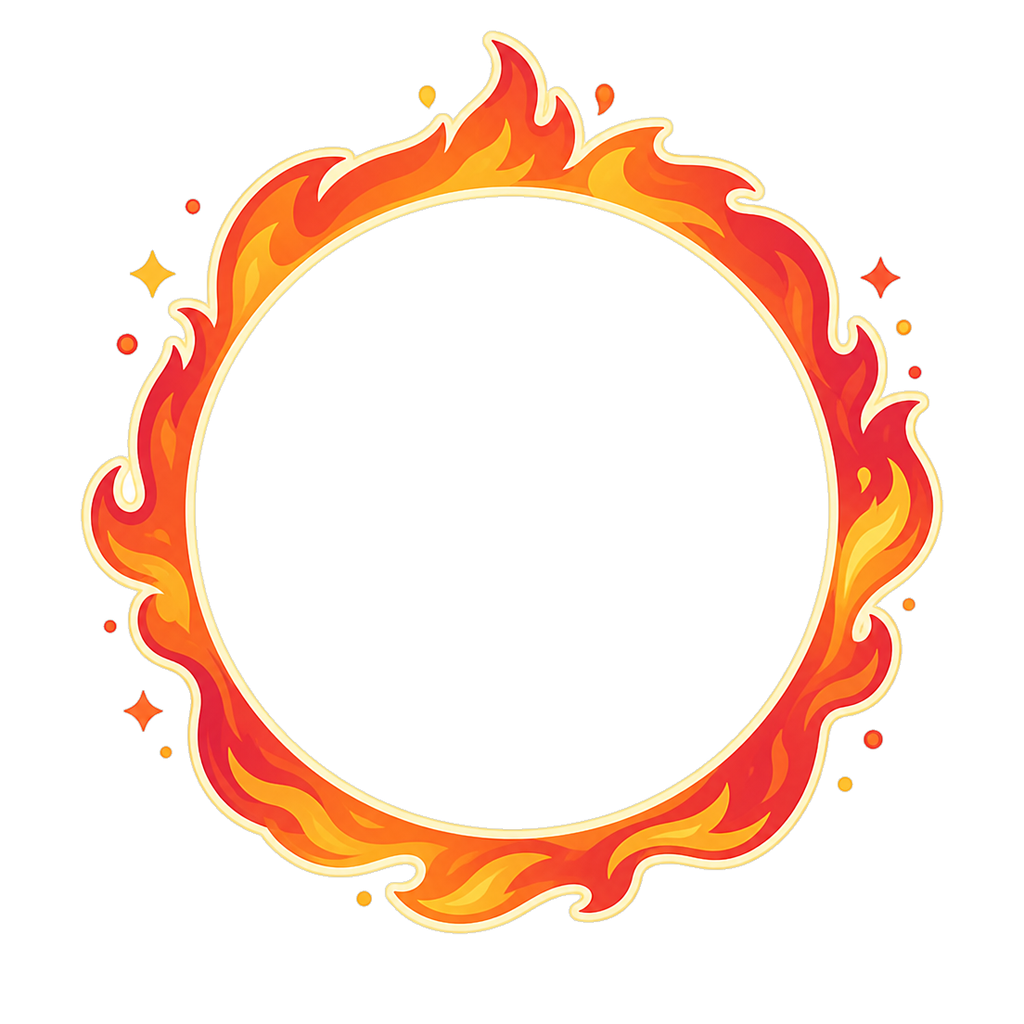
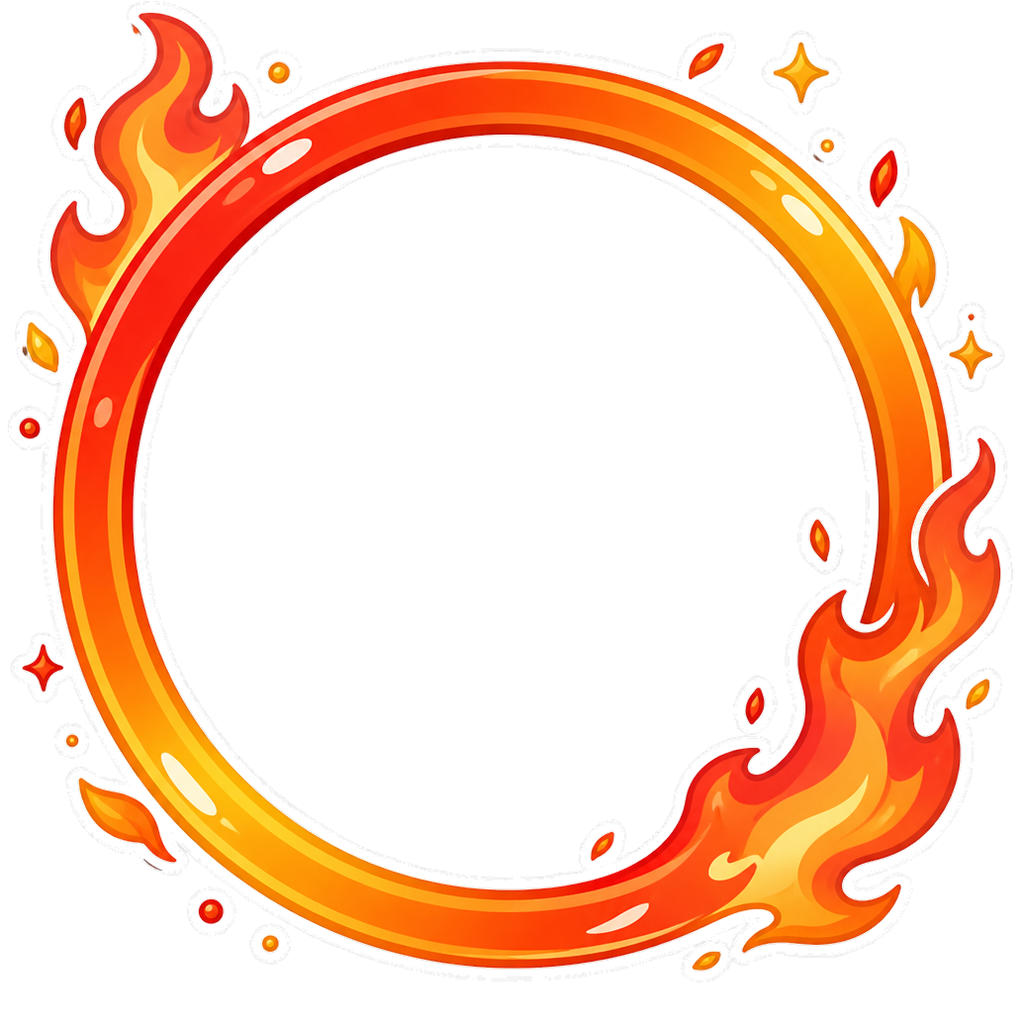
fix: ajusta encaixe das molduras e move adicionar refeição para a lista

diff --git a/frontend/lib/features/home/pages/home_page.dart b/frontend/lib/features/home/pages/home_page.dart
@@ -779,10 +779,7 @@ class _HomeBody extends StatelessWidget {
               child: Column(
                 children: [
                   const SizedBox(height: AppSpacing.xxl),
-                  _Header(
-                    userProfile: userProfile,
-                    onAvatarTap: onAvatarTap,
-                  ),
+                  _Header(userProfile: userProfile, onAvatarTap: onAvatarTap),
                   const SizedBox(height: AppSpacing.xxxl),
                   HomeDailyGoalWithMascot(
                     mascotAsset: HomePage._mealAsset,
@@ -800,8 +797,6 @@ class _HomeBody extends StatelessWidget {
                     onTap: onSelectedDateTap,
                   ),
                   const SizedBox(height: AppSpacing.sm),
-                  _AddMealAction(onTap: onAddMealPressed),
-                  const SizedBox(height: AppSpacing.lg),
                 ],
               ),
             ),
@@ -817,14 +812,19 @@ class _HomeBody extends StatelessWidget {
                     AppSpacing.lg,
                     AppSpacing.xxxl + bottomInset + 56,
                   ),
-                  itemCount: dayRecords.length,
+                  itemCount: dayRecords.length + 1,
                   separatorBuilder: (_, __) =>
                       const SizedBox(height: AppSpacing.lg),
                   itemBuilder: (context, index) {
-                    final record = dayRecords[index];
+                    if (index == 0) {
+                      return _AddMealAction(onTap: onAddMealPressed);
+                    }
+
+                    final recordIndex = index - 1;
+                    final record = dayRecords[recordIndex];
 
                     return HomeMealCard(
-                      cardKey: ValueKey('home-meal-card-$index'),
+                      cardKey: ValueKey('home-meal-card-$recordIndex'),
                       title: record.title,
                       description: record.description,
                       kcal: record.kcalLabel,

diff --git a/frontend/lib/shared/widgets/framed_avatar.dart b/frontend/lib/shared/widgets/framed_avatar.dart
@@ -95,9 +95,8 @@ class FramedAvatar extends StatelessWidget {
       case 'fruit_ring':
         return 0.86;
       case 'fire_streak':
-        return 0.65;
       case 'royal_gold':
-        return 0.66;
+        return 0.8;
       default:
         return framedAvatarScale;
     }
